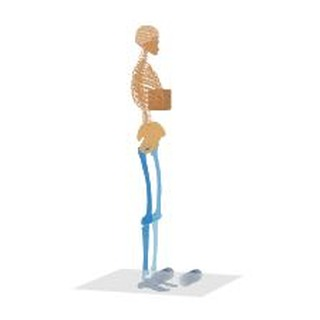
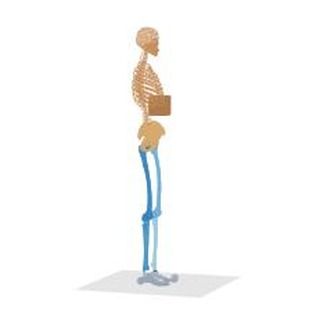
Align foot contacts to converted meshes
Derive heel, forefoot, medial, lateral, radius, and sole height from the complete converted foot mesh bounds instead of generic foot dimensions.

Apply one audited visual ground offset to the full OpenSim skeleton and make every sphere surface meet the same sole plane. Record the contact layout in the mesh manifest and pass it into the saved MJCF.

Changed region(s): [[0.4062, 0.4062, 0.6562, 0.9375], [0.4062, 0.0625, 0.5625, 0.4062], [0.5, 0.4062, 0.5312, 0.4375]]

diff --git a/projects/gait_c3d/vtp_adapter.py b/projects/gait_c3d/vtp_adapter.py
@@ -56,12 +56,22 @@ class DisplayGeometry:
 
 
 @dataclass(frozen=True, slots=True)
+class FootContactLayout:
+    """Mesh-derived sphere contact layout for both merged feet."""
+
+    radius: float
+    centers: dict[str, tuple[tuple[float, float, float], ...]]
+    visual_ground_offset_z: float
+
+
+@dataclass(frozen=True, slots=True)
 class CompiledVisuals:
     """Neutral visual assets and their sealed manifest."""
 
     root: Path
     manifest_path: Path
     meshes: tuple[SubjectVisualMesh, ...]
+    contact_layout: FootContactLayout | None = None
 
 
 def _sha256(path: str | os.PathLike) -> str:
@@ -539,6 +549,7 @@ def _compile_scaled_vtp_visuals(
     assets_dir.mkdir(parents=True)
     mesh_records = []
     meshes: list[SubjectVisualMesh] = []
+    compiled_geometry: list[tuple[Path, str, np.ndarray, np.ndarray, dict]] = []
     exact_transforms = source_body_transforms is not None
     target_transforms = _target_body_transforms(config)
     source_transforms = source_body_transforms or {}
@@ -585,29 +596,73 @@ def _compile_scaled_vtp_visuals(
         _write_obj(output_path, body_local, triangles)
         relative = output_path.relative_to(root).as_posix()
         meshes.append(SubjectVisualMesh(name, target_body, relative))
-        mesh_records.append(
-            {
-                "mesh": asdict(meshes[-1]),
-                "source": {
-                    "file": source_path.name,
-                    "sha256": source_hash,
-                    "scale": entry.scale.tolist(),
-                    "transform": entry.transform.tolist(),
-                    "mass_center": entry.mass_center.tolist(),
-                    "source_body": entry.source_body,
-                    "source_proximal_newton": source_proximal.tolist(),
-                    "target_proximal_newton": target_proximal.tolist(),
-                    "registration_translation": registration.tolist(),
-                    "registration_mode": "official_neutral_body_transform" if exact_transforms else "proximal_anchor",
-                },
-                "output": {
-                    "file": relative,
-                    "sha256": _sha256(output_path),
-                    "vertex_count": int(len(vertices)),
-                    "triangle_count": int(len(triangles)),
-                },
-            }
+        record = {
+            "mesh": asdict(meshes[-1]),
+            "source": {
+                "file": source_path.name,
+                "sha256": source_hash,
+                "scale": entry.scale.tolist(),
+                "transform": entry.transform.tolist(),
+                "mass_center": entry.mass_center.tolist(),
+                "source_body": entry.source_body,
+                "source_proximal_newton": source_proximal.tolist(),
+                "target_proximal_newton": target_proximal.tolist(),
+                "registration_translation": registration.tolist(),
+                "registration_mode": "official_neutral_body_transform" if exact_transforms else "proximal_anchor",
+            },
+            "output": {
+                "file": relative,
+                "sha256": _sha256(output_path),
+                "vertex_count": int(len(vertices)),
+                "triangle_count": int(len(triangles)),
+            },
+        }
+        mesh_records.append(record)
+        compiled_geometry.append((output_path, target_body, body_local, triangles, record))
+    contact_layout = None
+    if exact_transforms:
+        foot_geometry = {
+            side: [vertices for _, body, vertices, _, _ in compiled_geometry if body == f"foot_{side}"]
+            for side in ("left", "right")
+        }
+        if any(not values for values in foot_geometry.values()):
+            raise ValueError("official visual conversion needs talus, calcaneus, and toe geometry for both feet")
+        foot_global_min = min(
+            float(np.min(vertices[:, 2] + target_transforms[f"foot_{side}"][2, 3]))
+            for side, values in foot_geometry.items()
+            for vertices in values
         )
+        visual_ground_offset = -foot_global_min
+        for output_path, _, vertices, triangles, record in compiled_geometry:
+            vertices[:, 2] += visual_ground_offset
+            _write_obj(output_path, vertices, triangles)
+            record["output"]["sha256"] = _sha256(output_path)
+        bounds = {
+            side: (
+                np.min(np.concatenate(values, axis=0), axis=0),
+                np.max(np.concatenate(values, axis=0), axis=0),
+            )
+            for side, values in foot_geometry.items()
+        }
+        minimum_width = min(float(maximum[1] - minimum[1]) for minimum, maximum in bounds.values())
+        radius = min(config.contact_radius, 0.30 * minimum_width)
+        if not math.isfinite(radius) or radius <= 0.005:
+            raise ValueError("converted foot geometry cannot support sphere contacts")
+        centers = {}
+        for side, (minimum, maximum) in bounds.items():
+            heel_x = float(minimum[0] + radius)
+            forefoot_x = float(maximum[0] - radius)
+            lateral_y = float(minimum[1] + radius)
+            medial_y = float(maximum[1] - radius)
+            center_z = float(minimum[2] + radius)
+            centers[side] = (
+                (heel_x, lateral_y, center_z),
+                (heel_x, medial_y, center_z),
+                (forefoot_x, lateral_y, center_z),
+                (forefoot_x, medial_y, center_z),
+            )
+        contact_layout = FootContactLayout(radius, centers, visual_ground_offset)
+
     expected = {"pelvis", "torso", "femur_left", "femur_right", "tibia_left", "tibia_right"}
     if exact_transforms:
         expected.update(("foot_left", "foot_right"))
@@ -624,11 +679,12 @@ def _compile_scaled_vtp_visuals(
         },
         "source_model": {"file": model_path.name, "sha256": _sha256(model_path)},
         "simple_model_config": asdict(config),
+        "contact_layout": asdict(contact_layout) if contact_layout is not None else None,
         "meshes": mesh_records,
     }
     manifest_path = root / "manifest.json"
     manifest_path.write_text(json.dumps(manifest, indent=2, sort_keys=True, allow_nan=False) + "\n")
-    return CompiledVisuals(root, manifest_path, tuple(meshes))
+    return CompiledVisuals(root, manifest_path, tuple(meshes), contact_layout)
 
 
 def compile_scaled_vtp_visuals(
@@ -665,4 +721,4 @@ def compile_scaled_vtp_visuals(
             source_body_transforms,
         )
         os.rename(staged_root, root)
-    return CompiledVisuals(root, root / staged.manifest_path.name, staged.meshes)
+    return CompiledVisuals(root, root / staged.manifest_path.name, staged.meshes, staged.contact_layout)

diff --git a/projects/gait_c3d/subject_mjcf.py b/projects/gait_c3d/subject_mjcf.py
@@ -111,6 +111,8 @@ def subject_mjcf_xml(
     model_name: str = "simple_gait_subject",
     visual_meshes: Sequence[SubjectVisualMesh] = (),
     include_fallback_geometry: bool = True,
+    contact_centers: dict[str, tuple[tuple[float, float, float], ...]] | None = None,
+    contact_radius: float | None = None,
 ) -> str:
     """Create MJCF for one scaled simple-joint subject.
 
@@ -119,6 +121,8 @@ def subject_mjcf_xml(
         model_name: MJCF model label.
         visual_meshes: Body-local neutral mesh assets.
         include_fallback_geometry: Include box and capsule visuals when true.
+        contact_centers: Optional mesh-derived sphere centers keyed by side.
+        contact_radius: Optional mesh-derived contact radius [m].
 
     Returns:
         An MJCF XML document. It can be passed directly to
@@ -200,6 +204,26 @@ def subject_mjcf_xml(
     contact = ET.SubElement(root, "contact")
     ET.SubElement(contact, "exclude", body1="foot_left", body2="foot_right")
     degrees = math.pi / 180.0
+    radius = config.contact_radius if contact_radius is None else contact_radius
+    if not math.isfinite(radius) or radius <= 0.0:
+        raise ValueError("contact_radius must be finite and positive")
+    if contact_centers is None:
+        heel_x = -0.32 * config.foot_length
+        forefoot_x = 0.48 * config.foot_length
+        half_width = 0.35 * config.foot_width
+        centers_by_side = dict.fromkeys(
+            ("left", "right"),
+            (
+                (heel_x, -half_width, -config.contact_radius),
+                (heel_x, half_width, -config.contact_radius),
+                (forefoot_x, -half_width, -config.contact_radius),
+                (forefoot_x, half_width, -config.contact_radius),
+            ),
+        )
+    else:
+        centers_by_side = contact_centers
+        if set(centers_by_side) != {"left", "right"} or any(len(values) != 4 for values in centers_by_side.values()):
+            raise ValueError("contact_centers must provide four centers for each foot")
     for side, lateral_sign in (("left", 1.0), ("right", -1.0)):
         femur = ET.SubElement(
             pelvis,
@@ -309,23 +333,13 @@ def subject_mjcf_xml(
             armature=0.005,
         )
         _add_target_actuators(actuator, ankle_name, ankle_limits)
-        heel_x = -0.32 * config.foot_length
-        forefoot_x = 0.48 * config.foot_length
-        half_width = 0.35 * config.foot_width
-        for index, center in enumerate(
-            (
-                (heel_x, -half_width, -config.contact_radius),
-                (heel_x, half_width, -config.contact_radius),
-                (forefoot_x, -half_width, -config.contact_radius),
-                (forefoot_x, half_width, -config.contact_radius),
-            )
-        ):
+        for index, center in enumerate(centers_by_side[side]):
             ET.SubElement(
                 foot,
                 "geom",
                 name=f"contact_{side}_{index}",
                 type="sphere",
-                size=f"{config.contact_radius:.9g}",
+                size=f"{radius:.9g}",
                 pos=_values(*center),
                 attrib={"class": "collision"},
             )
@@ -334,7 +348,7 @@ def subject_mjcf_xml(
                 "geom",
                 name=f"visual_foot_{side}_{index}",
                 type="sphere",
-                size=f"{config.contact_radius:.9g}",
+                size=f"{radius:.9g}",
                 pos=_values(*center),
                 attrib={"class": "visual"},
                 rgba="0.18 0.32 0.58 0.35",
@@ -388,6 +402,8 @@ def write_subject_mjcf(
     model_name: str = "simple_gait_subject",
     visual_meshes: Sequence[SubjectVisualMesh] = (),
     include_fallback_geometry: bool = True,
+    contact_centers: dict[str, tuple[tuple[float, float, float], ...]] | None = None,
+    contact_radius: float | None = None,
 ) -> Path:
     """Write a scaled subject MJCF that Newton can load in one builder call."""
     path = Path(output_path).resolve()
@@ -398,6 +414,8 @@ def write_subject_mjcf(
             model_name=model_name,
             visual_meshes=visual_meshes,
             include_fallback_geometry=include_fallback_geometry,
+            contact_centers=contact_centers,
+            contact_radius=contact_radius,
         ),
         encoding="utf-8",
     )

diff --git a/newton/tests/test_gait_vtp_adapter.py b/newton/tests/test_gait_vtp_adapter.py
@@ -24,7 +24,7 @@ _VTP = """<?xml version="1.0"?>
 <VTKFile type="PolyData" version="0.1">
   <PolyData><Piece NumberOfPoints="4" NumberOfPolys="1">
     <Points><DataArray type="Float32" NumberOfComponents="3" format="ascii">
-      0 0 0  0 1 0  1 1 0  1 0 0
+      0 0 -0.05  0 1 0.05  1 1 0.05  1 0 -0.05
     </DataArray></Points>
     <Polys>
       <DataArray type="Int32" Name="connectivity" format="ascii">0 1 2 3</DataArray>
@@ -205,6 +205,17 @@ class TestGaitVTPAdapter(unittest.TestCase):
         self.assertEqual(len(bundle.meshes), 12)
         self.assertEqual(sum(mesh.body == "foot_left" for mesh in bundle.meshes), 3)
         self.assertEqual(sum(mesh.body == "foot_right" for mesh in bundle.meshes), 3)
+        self.assertIsNotNone(bundle.contact_layout)
+        foot_origin_z = (
+            config.pelvis_height
+            - config.pelvis_hip_drop
+            - config.thigh_length
+            - config.shank_length
+            - config.contact_radius
+        )
+        for centers in bundle.contact_layout.centers.values():
+            for center in centers:
+                self.assertAlmostEqual(foot_origin_z + center[2] - bundle.contact_layout.radius, 0.0, places=6)
 
     def test_rejects_two_nonidentity_legacy_scale_levels(self):
         """Reject stale models that would apply subject geometry scaling twice."""
@@ -271,7 +282,7 @@ class TestGaitVTPAdapter(unittest.TestCase):
         self.assertEqual(len(mesh_indices), 6)
         for shape in mesh_indices:
             self.assertFalse(shape_flags[shape] & newton.ShapeFlags.COLLIDE_SHAPES)
-        self.assertEqual(first_obj[1], "v 0 0 1")
+        np.testing.assert_allclose([float(value) for value in first_obj[1].split()[1:]], (0.0, -0.05, 1.0))
 
 
 if __name__ == "__main__":

diff --git a/newton/examples/opensim/example_opensim_subject.py b/newton/examples/opensim/example_opensim_subject.py
@@ -138,6 +138,7 @@ class Example:
             )
 
         visual_meshes = ()
+        contact_layout = None
         if bool(scaled_osim) != bool(args.geometry_dir):
             raise ValueError("a scaled/template model path and --geometry-dir must be provided together")
         if scaled_osim:
@@ -149,7 +150,13 @@ class Example:
                 source_body_transforms=source_body_transforms,
             )
             visual_meshes = visuals.meshes
+            contact_layout = visuals.contact_layout
             print(f"VTP: {len(visual_meshes)} scaled visual meshes -> {visuals.root}")
+            if contact_layout is not None:
+                print(
+                    f"Contact: radius {contact_layout.radius:.4f} m, visual ground offset "
+                    f"{contact_layout.visual_ground_offset_z:.4f} m"
+                )
 
         self.visual_mesh_count = len(visual_meshes)
         self.subject_xml = write_subject_mjcf(
@@ -158,6 +165,8 @@ class Example:
             model_name=args.subject_name,
             visual_meshes=visual_meshes,
             include_fallback_geometry=not visual_meshes,
+            contact_centers=contact_layout.centers if contact_layout is not None else None,
+            contact_radius=contact_layout.radius if contact_layout is not None else None,
         )
         newton.use_coord_layout_targets = True
         self.free_root = args.free_root

diff --git a/projects/gait_c3d/README.md b/projects/gait_c3d/README.md
@@ -92,9 +92,13 @@ builder.add_mjcf(str(subject_xml))
 
 The canonical official S001 conversion resolves 19 VTP assets and loads as 8
 bodies, 16 free-root velocity DOFs, 19 non-colliding mesh visuals, 8 foot
-contact spheres, 8 visible sphere overlays, and collision/visual ground planes
-through one `ModelBuilder.add_mjcf()` call. Official default-pose body transforms
-bake talus, calcaneus, and toe meshes into each merged Newton foot frame.
+contact spheres, 8 translucent sphere overlays, and collision/visual ground
+planes through one `ModelBuilder.add_mjcf()` call. Official default-pose body
+transforms bake talus, calcaneus, and toe meshes into each merged Newton foot
+frame. The compiler then shifts the complete visual skeleton by one audited
+vertical offset so the lowest visual sole is at the ground, derives contact
+radius and heel/forefoot/medial/lateral centers from each converted foot's
+body-local bounds, and makes every sphere surface meet that same sole plane.
 
 ## Direct C3D marker artifacts
 
